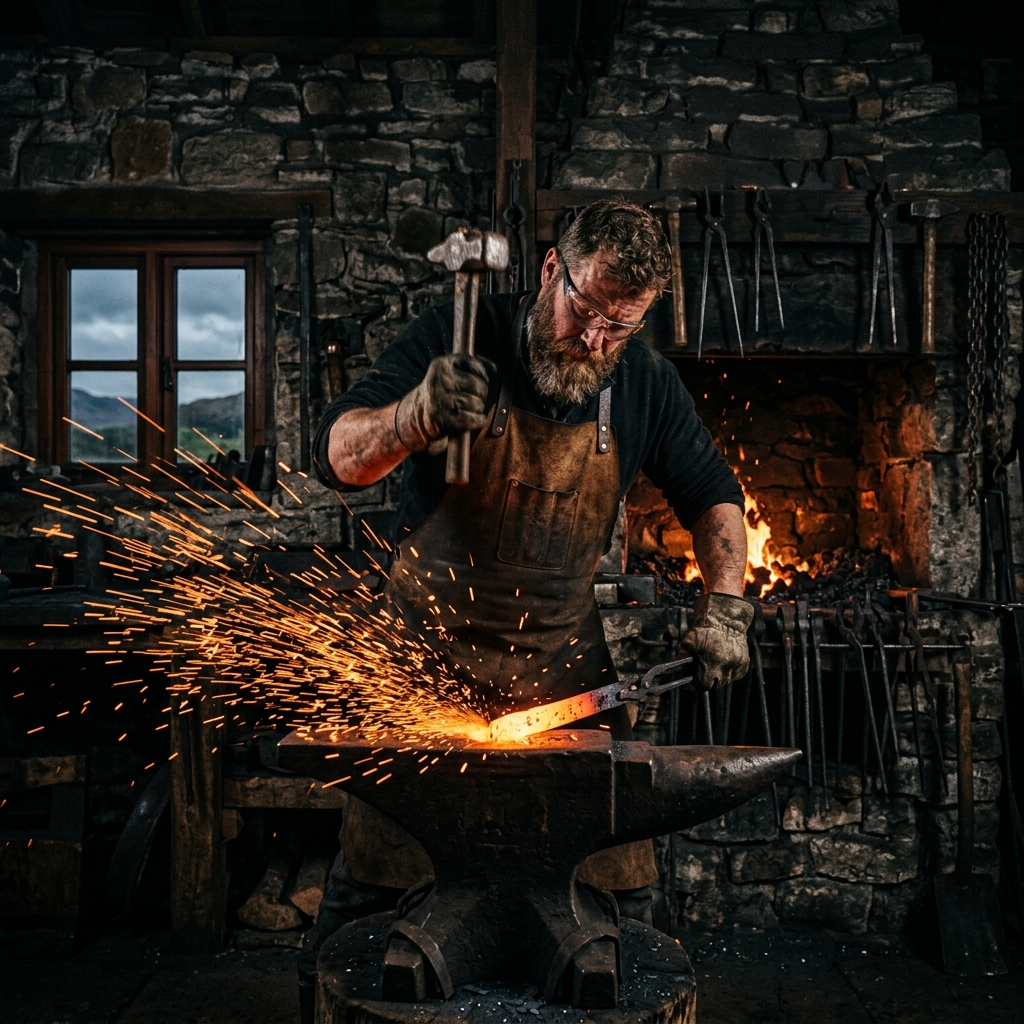
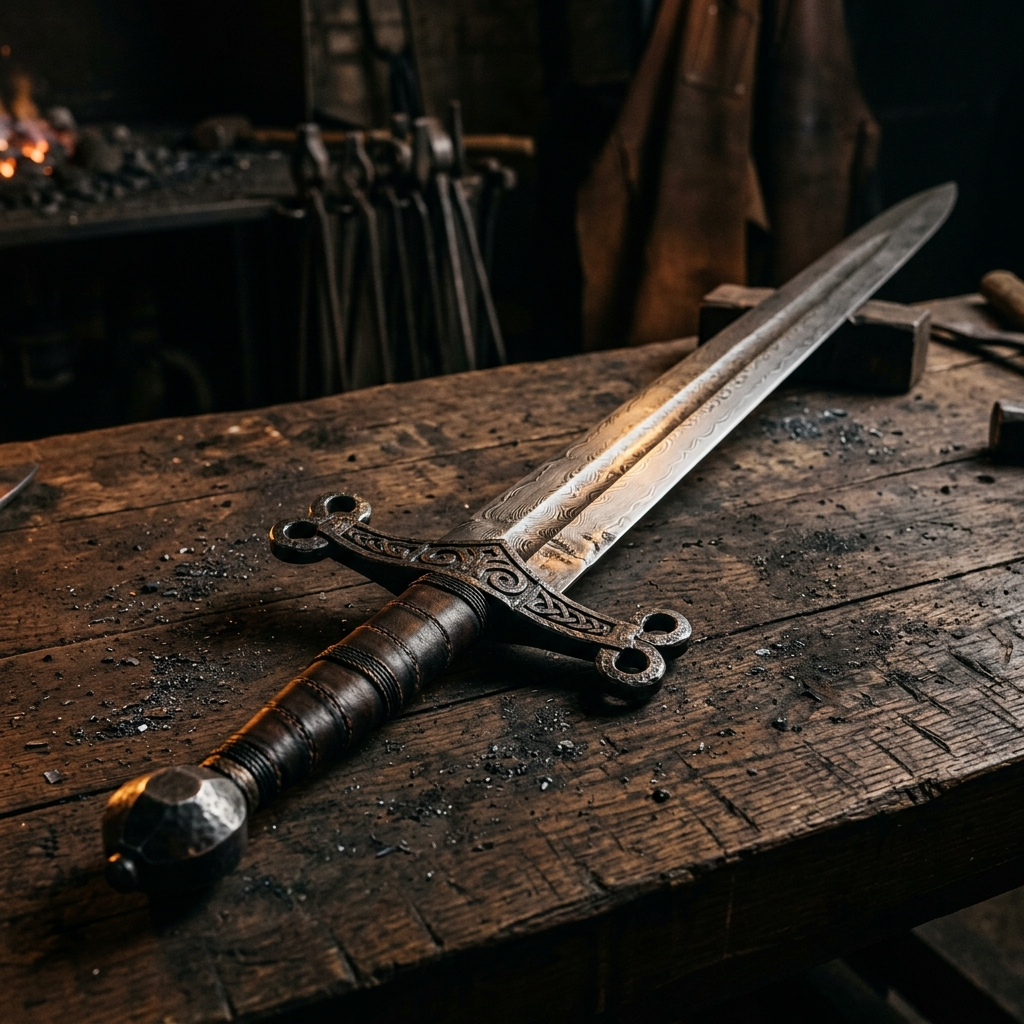
style: visual overhaul, typography modernization, and local premium assets for Vogie Forge

diff --git a/src/App.css b/src/App.css
@@ -11,14 +11,16 @@
   position: sticky;
   top: 0;
   height: 90px;
-  background: rgba(10, 9, 8, 0.95);
-  border-bottom: 3px double var(--gold-solid);
+  background: rgba(10, 9, 8, 0.82);
+  backdrop-filter: blur(12px);
+  -webkit-backdrop-filter: blur(12px);
+  border-bottom: 1px solid rgba(197, 160, 89, 0.15);
   display: flex;
   align-items: center;
   justify-content: space-between;
   padding: 0 40px;
   z-index: 100;
-  box-shadow: 0 4px 25px rgba(0, 0, 0, 0.7);
+  box-shadow: 0 4px 25px rgba(0, 0, 0, 0.5);
 }
 
 .nav-brand {
@@ -89,7 +91,7 @@
   justify-content: center;
   text-align: center;
   overflow: hidden;
-  border-bottom: 4px double var(--gold-solid);
+  border-bottom: 1px solid rgba(197, 160, 89, 0.15);
 }
 
 .hero-bg {
@@ -265,19 +267,17 @@
   filter: drop-shadow(0 1px 2px rgba(0, 0, 0, 0.8));
 }
 
-/* Parchment / Vellum Scroll Container (Ancient Manuscripts style) */
+/* Premium Dark Slab Container (Overriding old yellow parchment) */
 .parchment-scroll {
-  background-color: var(--bg-parchment);
-  background-image: radial-gradient(rgba(0, 0, 0, 0.03) 1px, transparent 0);
+  background-color: var(--bg-slate);
+  background-image: radial-gradient(rgba(255, 255, 255, 0.015) 1px, transparent 0);
   background-size: 30px 30px;
-  color: var(--ink-dark);
-  border: 1px solid rgba(0, 0, 0, 0.15);
+  color: var(--text-bone);
+  border: 1px solid rgba(197, 160, 89, 0.2);
   border-radius: 4px;
-  box-shadow: 
-    0 10px 30px rgba(0, 0, 0, 0.6), 
-    inset 0 0 40px rgba(139, 90, 43, 0.15);
+  box-shadow: 0 10px 40px rgba(0, 0, 0, 0.7);
   position: relative;
-  font-family: var(--font-serif);
+  font-family: var(--font-accent);
 }
 
 .parchment-scroll::after {
@@ -287,7 +287,7 @@
   left: 6px;
   right: 6px;
   bottom: 6px;
-  border: 1px solid rgba(139, 90, 43, 0.25);
+  border: 1px solid rgba(197, 160, 89, 0.08);
   pointer-events: none;
 }
 
@@ -728,7 +728,7 @@
   font-size: 21px;
   font-style: italic;
   line-height: 1.8;
-  color: var(--ink-dark);
+  color: var(--text-bone);
   margin-bottom: 28px;
 }
 
@@ -736,7 +736,7 @@
   font-family: var(--font-accent);
   font-size: 14px;
   letter-spacing: 2px;
-  color: var(--ink-red);
+  color: var(--gold-solid);
   text-transform: uppercase;
 }
 
@@ -750,50 +750,62 @@
 }
 
 .accordion-item {
-  border: 1px solid rgba(0, 0, 0, 0.15);
-  border-radius: 2px;
+  border: 1px solid rgba(197, 160, 89, 0.15);
+  background: var(--bg-slate);
+  border-radius: 4px;
   overflow: hidden;
-  box-shadow: 0 4px 15px rgba(0, 0, 0, 0.2);
+  box-shadow: 0 4px 20px rgba(0, 0, 0, 0.35);
+  transition: border-color 0.3s ease;
+}
+
+.accordion-item:hover {
+  border-color: rgba(197, 160, 89, 0.3);
+}
+
+.accordion-item.open {
+  border-color: var(--gold-solid);
 }
 
 .accordion-trigger {
   padding: 24px 32px;
-  background: var(--bg-parchment-dark);
+  background: var(--bg-slate);
   display: flex;
   justify-content: space-between;
   align-items: center;
   cursor: pointer;
   transition: all 0.3s ease;
-  border-bottom: 1px solid rgba(139, 90, 43, 0.15);
+  border-bottom: 1px solid rgba(255, 255, 255, 0.05);
 }
 
 .accordion-trigger:hover {
-  background: #e2d7b8;
+  background: var(--bg-hearth);
 }
 
 .accordion-question {
   font-family: var(--font-heading);
   font-size: 18px;
-  color: var(--ink-dark);
+  color: var(--text-bone);
   text-align: left;
+  letter-spacing: 0.5px;
 }
 
 .accordion-icon {
-  color: var(--ink-muted);
+  color: var(--gold-solid);
   transition: transform 0.3s cubic-bezier(0.16, 1, 0.3, 1);
 }
 
 .accordion-item.open .accordion-icon {
   transform: rotate(180deg);
-  color: var(--ink-red);
+  color: var(--gold-glow);
 }
 
 .accordion-content {
   padding: 32px;
-  background: var(--bg-parchment);
-  font-size: 16.5px;
-  color: var(--ink-dark);
-  line-height: 1.75;
+  background: rgba(10, 9, 8, 0.4);
+  font-size: 16px;
+  color: var(--text-tarnish);
+  line-height: 1.8;
+  border-top: 1px solid rgba(255, 255, 255, 0.02);
 }
 
 /* Materials & Process details */
@@ -959,18 +971,18 @@ textarea.custom-input {
   display: flex;
   gap: 14px;
   font-size: 15px;
-  color: var(--ink-dark);
+  color: var(--text-tarnish);
   line-height: 1.6;
 }
 
 .policy-bullet {
-  color: var(--ink-red);
+  color: var(--gold-solid);
   font-weight: bold;
 }
 
 /* Footer styling */
 .footer {
-  border-top: 3px double var(--gold-solid);
+  border-top: 1px solid rgba(197, 160, 89, 0.15);
   background: rgba(10, 9, 8, 0.98);
   padding: 64px 32px;
   text-align: center;

diff --git a/src/App.tsx b/src/App.tsx
@@ -474,7 +474,7 @@ function App() {
                   className="collection-card" 
                   onClick={() => { setCatalogFilter('claymore'); setActiveTab('catalog'); window.scrollTo(0,0); }}
                 >
-                  <div className="collection-card-bg" style={{ backgroundImage: `url(https://static.wixstatic.com/media/cd5cc7_d17e6d868e244b88ae9ce97bee4f56d3~mv2.jpg/v1/fill/w_450,h_330,al_c,q_85/file.jpg)` }}></div>
+                  <div className="collection-card-bg" style={{ backgroundImage: `url(/category-claymore.png)` }}></div>
                   <div className="collection-card-overlay"></div>
                   <div className="collection-card-content">
                     <span className="collection-title">HIGHLAND CLAYMORES</span>
@@ -486,7 +486,7 @@ function App() {
                   className="collection-card" 
                   onClick={() => { setCatalogFilter('broadsword'); setActiveTab('catalog'); window.scrollTo(0,0); }}
                 >
-                  <div className="collection-card-bg" style={{ backgroundImage: `url(https://static.wixstatic.com/media/cd5cc7_a06d45bbf61f40f3a2ba49000ab99674~mv2.jpg/v1/fill/w_450,h_330,al_c,q_85/file.jpg)` }}></div>
+                  <div className="collection-card-bg" style={{ backgroundImage: `url(/category-broadsword.png)` }}></div>
                   <div className="collection-card-overlay"></div>
                   <div className="collection-card-content">
                     <span className="collection-title">BASKET HILT BROADSWORDS</span>
@@ -498,7 +498,7 @@ function App() {
                   className="collection-card" 
                   onClick={() => { setCatalogFilter('dirk'); setActiveTab('catalog'); window.scrollTo(0,0); }}
                 >
-                  <div className="collection-card-bg" style={{ backgroundImage: `url(https://static.wixstatic.com/media/cd5cc7_cd11fc4d7bc64048afa7010bd81a2bef~mv2.jpg/v1/fill/w_450,h_330,al_c,q_85/file.jpg)` }}></div>
+                  <div className="collection-card-bg" style={{ backgroundImage: `url(/category-dirk.png)` }}></div>
                   <div className="collection-card-overlay"></div>
                   <div className="collection-card-content">
                     <span className="collection-title">HIGHLAND DIRKS</span>
@@ -1176,30 +1176,30 @@ function App() {
             </div>
 
             <div className="parchment-scroll godsword-parchment">
-              <h3 style={{ fontFamily: 'var(--font-heading)', fontSize: '24px', color: 'var(--ink-red)', marginBottom: '24px', textAlign: 'center' }}>Concerning the Possession of God's Word</h3>
+              <h3 style={{ fontFamily: 'var(--font-heading)', fontSize: '24px', color: 'var(--gold-solid)', marginBottom: '24px', textAlign: 'center' }}>Concerning the Possession of God's Word</h3>
               
-              <p className="drop-cap-parchment" style={{ fontSize: '18px', color: 'var(--ink-dark)', lineHeight: '1.8', marginBottom: '20px' }}>
+              <p className="drop-cap-parchment" style={{ fontSize: '18px', color: 'var(--text-bone)', lineHeight: '1.8', marginBottom: '20px' }}>
                 An interest in the sword will eventually lead one to recognise that history's best seller, the King James Bible, refers to itself as the 'sword of the Spirit'. Every sword is known as a weapon of offense as well as defense, a symbol of power as well as protection. 
               </p>
               
-              <p style={{ fontSize: '18px', color: 'var(--ink-dark)', lineHeight: '1.8', marginBottom: '20px' }}>
+              <p style={{ fontSize: '18px', color: 'var(--text-bone)', lineHeight: '1.8', marginBottom: '20px' }}>
                 According to Hebrews chapter 4 v12, 'the word of God is quick, and powerful, and sharper than any two edged sword, piercing even to the dividing asunder of soul and spirit, and of the joints and morrow, and is a discerner of the thoughts and intents of the heart.' 1 Peter 1 v23 says one is 'born again, not of corruptible seed, but of incorruptible, by the word of God, which liveth and abideth for ever.'
               </p>
 
-              <p style={{ fontSize: '18px', color: 'var(--ink-dark)', lineHeight: '1.8', marginBottom: '20px' }}>
+              <p style={{ fontSize: '18px', color: 'var(--text-bone)', lineHeight: '1.8', marginBottom: '20px' }}>
                 In John 12 v48, Jesus says, 'He that rejecteth me, and receiveth not my words, hath one that judgeth him: the word that I have spoken, the same shall judge him in the last day.' It is interesting to see from scripture that God's word, or sword, is intended to be man's greatest friend, or greatest foe; the hope of our eternal protection, or the instrument of our eternal destruction. 
               </p>
 
-              <p style={{ fontSize: '18px', color: 'var(--ink-dark)', lineHeight: '1.8', marginBottom: '20px' }}>
+              <p style={{ fontSize: '18px', color: 'var(--text-bone)', lineHeight: '1.8', marginBottom: '20px' }}>
                 'And this is the record, that God hath given to us eternal life, and this life is in his Son' (1 John 5 v11). This 'record' is also called the 'gospel' in 1 Corinthians 15 v1-4, 'how that Christ died for our sins according to the scriptures; And that he was buried, and that he rose again the third day according to the scriptures:' Faith in God's word as the written record of the gospel determines our eternal destination, and therefore Acts 16 v31 states, 'believe on the Lord Jesus Christ, and thou shalt be saved'.
               </p>
 
-              <p style={{ fontSize: '18px', color: 'var(--ink-dark)', lineHeight: '1.8', marginBottom: '24px' }}>
+              <p style={{ fontSize: '18px', color: 'var(--text-bone)', lineHeight: '1.8', marginBottom: '24px' }}>
                 Considering all this, what sword could be of greater importance, or worth possessing? For this reason, Vogie Forge offers free King James Bibles upon request, while supplies last. Please contact us for more information.
               </p>
 
               <div style={{ display: 'flex', justifyContent: 'center', marginTop: '32px' }}>
-                <button className="custom-button" style={{ background: 'var(--ink-red)', borderColor: 'var(--ink-red)', color: 'white' }} onClick={() => {
+                <button className="custom-button" onClick={() => {
                   setFormData(prev => ({ ...prev, message: 'I would like to request a free copy of the King James Bible, as offered on your website.' }));
                   setActiveTab('contact');
                 }}>

diff --git a/src/index.css b/src/index.css
@@ -17,12 +17,12 @@
   
   /* Antiquity Typography Colors */
   --text-bone: #f5f2eb;        /* Bleached vellum */
-  --text-tarnish: #cfc9b8;     /* Aged silver/brass */
-  --text-ash: #8c8576;         /* Hearth ash gray */
+  --text-tarnish: #e3dfd5;     /* Aged silver/brass - brightened for contrast */
+  --text-ash: #aba496;         /* Hearth ash gray - brightened for readability */
   
   /* Ink Colors for Parchment scrolls */
-  --ink-dark: #241d13;         /* Gall-nut iron ink */
-  --ink-muted: #5e513a;        /* Faded sepia */
+  --ink-dark: #1d1810;         /* Gall-nut iron ink */
+  --ink-muted: #534731;        /* Faded sepia */
   --ink-red: #8f2317;          /* Rubricator vermillion */
   
   /* Shadow & Aura glows */
@@ -64,13 +64,13 @@
 body {
   background-color: var(--bg-dark);
   color: var(--text-bone);
-  font-family: var(--font-serif);
-  font-size: 17px;
-  line-height: 1.7;
+  font-family: var(--font-accent); /* Outfit sans-serif by default for premium modern legibility */
+  font-size: 16px;
+  line-height: 1.75;
   overflow-x: hidden;
   min-height: 100dvh;
   position: relative;
-  letter-spacing: 0.01em;
+  letter-spacing: 0.02em;
 }
 
 /* Ash & Hearth Texture Overlay */